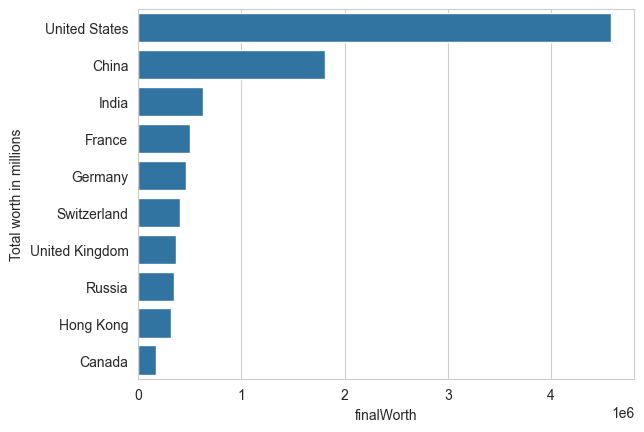
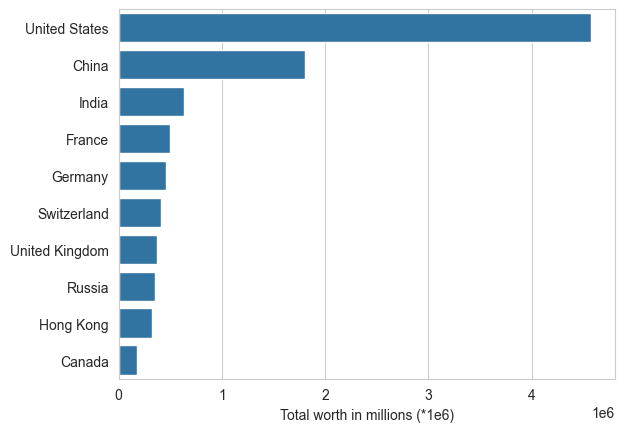
Analysis

diff --git a/Billionaires/README.md b/Billionaires/README.md
@@ -33,7 +33,11 @@ or less the same amount of wealth (although proper statistical test is required)
 
 * And the majority of wealth is distributed in this way
 
+By countries
 ![img_6.png](img_6.png)
+
+And by industries
+![img_9.png](img_9.png)
 
 * The majority of billionaires are around 65 years old with 50% falling
 into the range between 56 and 75
